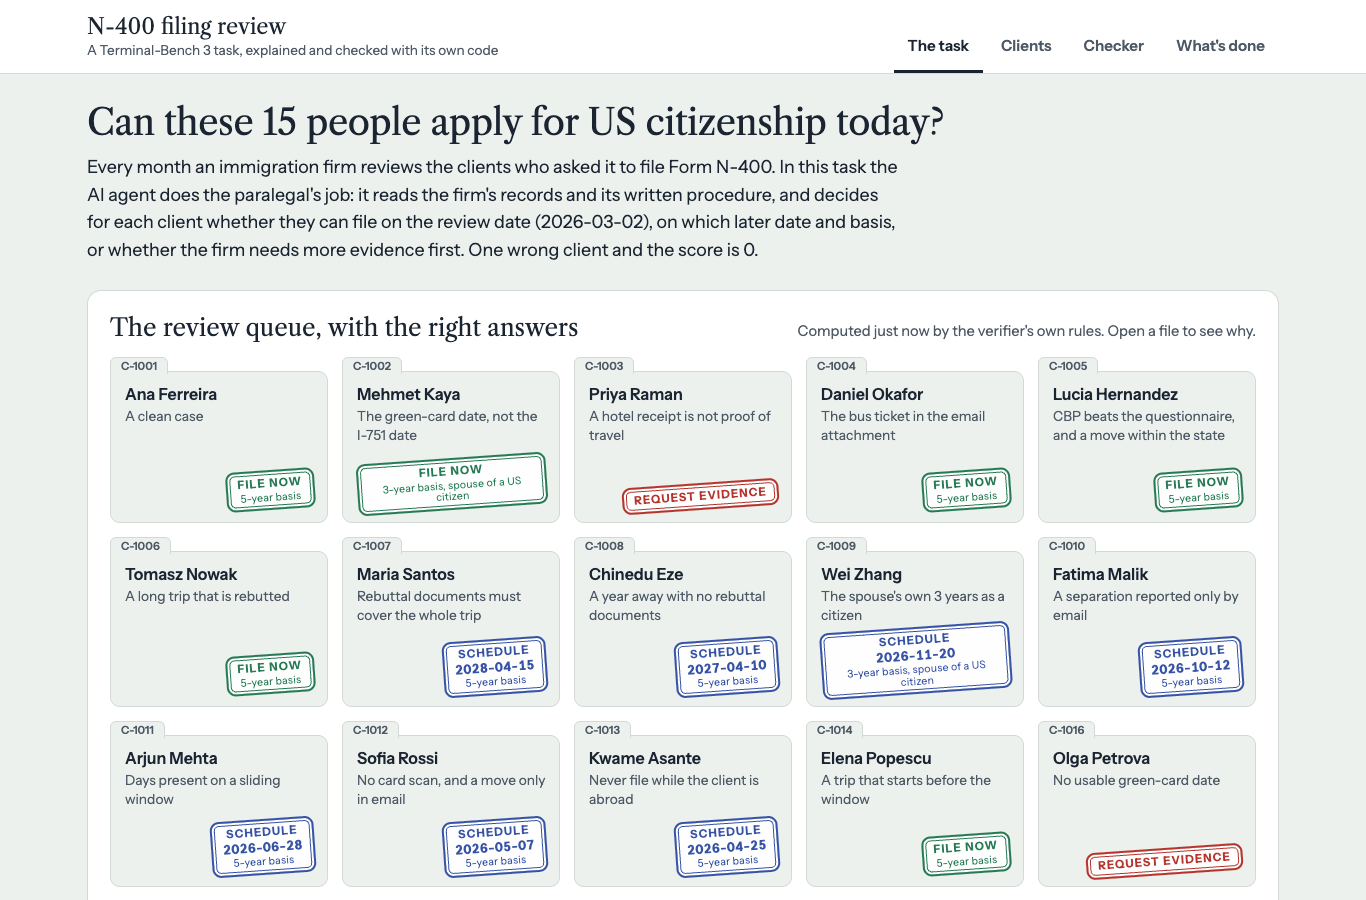
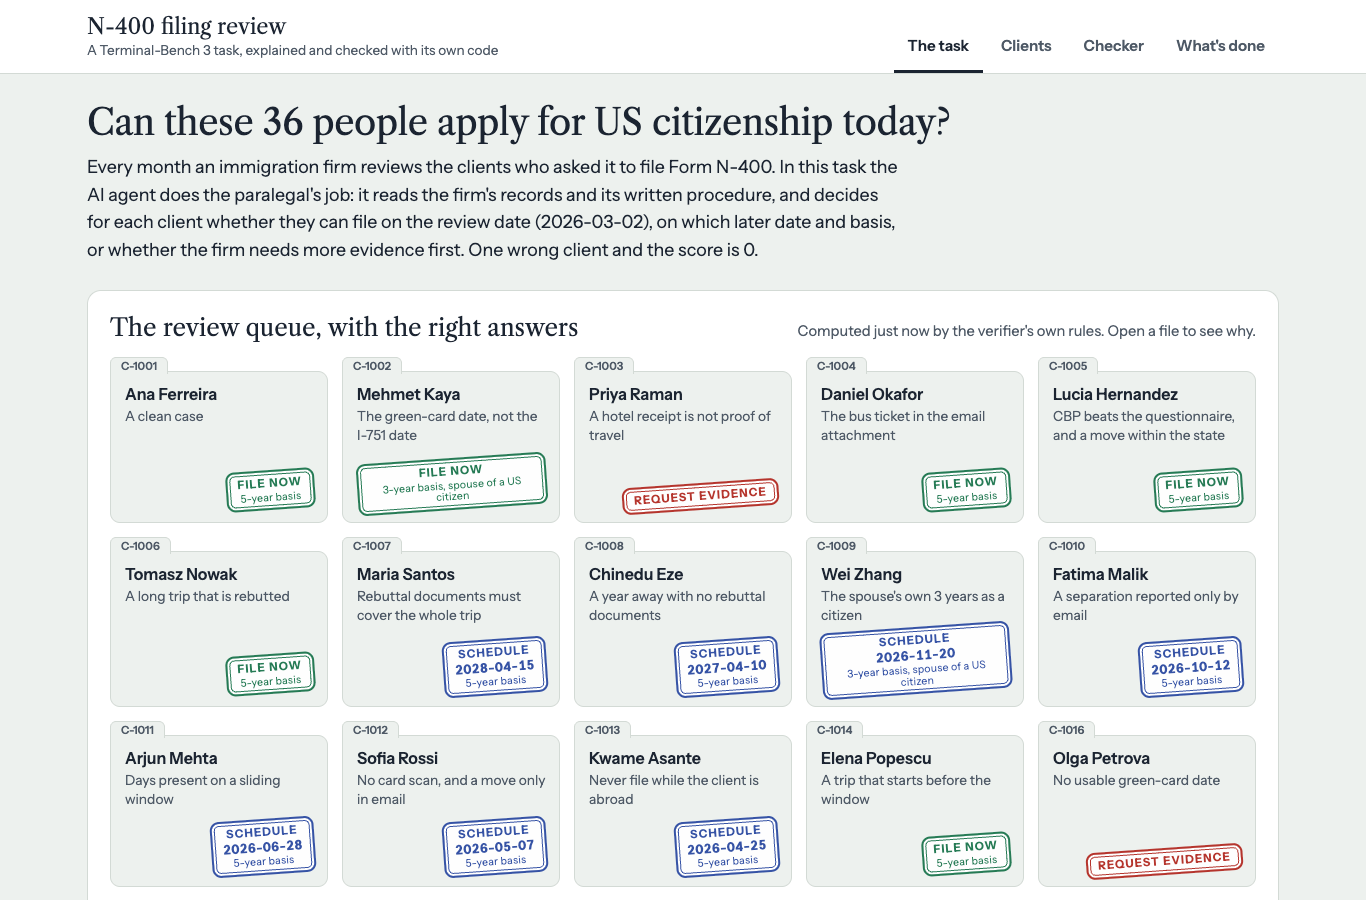
Retake the task-page screenshot and list a known issue
docs/app-task.png now shows the v4 task page ("Can these 36 people apply
for US citizenship today?"), taken at 1366x900 like the screenshot it
replaces. Its caption in docs/DESIGN.md now says 36 clients, and the
diagram's alt text on that page uses the live queue size instead of 15.
The diagram itself, docs/how-it-works.svg, still shows v1 counts; that is
separate work.

The README gets a Known issues section. Its one entry: CBP's replaced
first response for C-1028 is dated February 2, 2026 but says the search
ran through February 15. No answer depends on it, and fixing it would
change the task data, so it is left as is.

Changed region(s): [[0.1845, 0.0933, 0.7072, 0.1556]]

diff --git a/demo/frontend/app.js b/demo/frontend/app.js
@@ -97,7 +97,7 @@ function renderTask() {
     .replace(/\n {2}\]\n\}$/, ",\n    …\n  ]\n}");
   const diagram = o.diagrams.includes("how-it-works.svg") ? `
     <figure class="diagram">
-      <img src="/docs/how-it-works.svg" alt="How the task works: the ground truth is rendered into the records the agent reads; the agent writes 15 decisions; a separate verifier recomputes the answers and gives reward 1 only if all 15 match.">
+      <img src="/docs/how-it-works.svg" alt="How the task works: the ground truth is rendered into the records the agent reads; the agent writes ${o.queue} decisions; a separate verifier recomputes the answers and gives reward 1 only if all ${o.queue} match.">
       <figcaption>How the pieces fit: the agent never sees the answer key, and the verifier never runs the agent's code.</figcaption>
     </figure>` : "";
   return `

diff --git a/README.md b/README.md
@@ -39,6 +39,7 @@ Every check that was run passes except one: the assignment's bar that all 3 stan
 - [How to run everything](#how-to-run-everything)
 - [Repository layout](#repository-layout)
 - [Design notes](#design-notes)
+- [Known issues](#known-issues)
 - [Iteration log](#iteration-log)
 
 ## What the agent gets and what it must write
@@ -243,6 +244,10 @@ docs/                           3 diagrams and 6 explorer screenshots
 [docs/DESIGN.md](docs/DESIGN.md) covers how the task handles human review, guardrails, data management, speed and cost, and bounded agent loops, plus the sources behind every rule and a plan for turning it into a production tool:
 
 ![Production plan](docs/production-plan.svg)
+
+## Known issues
+
+- **A date in a replaced CBP response.** `/app/review/foia/CBP-2026-01028.pdf`, CBP's first response for C-1028, is dated February 2, 2026, but says CBP searched records through February 15, 2026, 13 days later. `tests/case_facts.json` gives that response its own date and records but no search window of its own, so the renderer prints the request's window on both of C-1028's responses. No answer depends on it: only the latest response to a request counts (SOP section 2), and the amended response, `CBP-2026-01028-A1.pdf` (February 20, 2026), gives the same window. Fixing it would change the task data and mean rerunning every check and trial, so it is left as is.
 
 ## Iteration log
 

diff --git a/docs/DESIGN.md b/docs/DESIGN.md
@@ -84,7 +84,7 @@ The explorer app in `demo/` shows the task live: the right answer for every clie
 
 ![Explorer: the task page](app-task.png)
 
-*The task page: the 15 clients in the review queue, each with the right answer from the verifier's own rules.*
+*The task page: the review queue of 36 clients (the first 15 shown), each with the right answer from the verifier's own rules.*
 
 ![Explorer: client C-1007](app-client.png)
 
